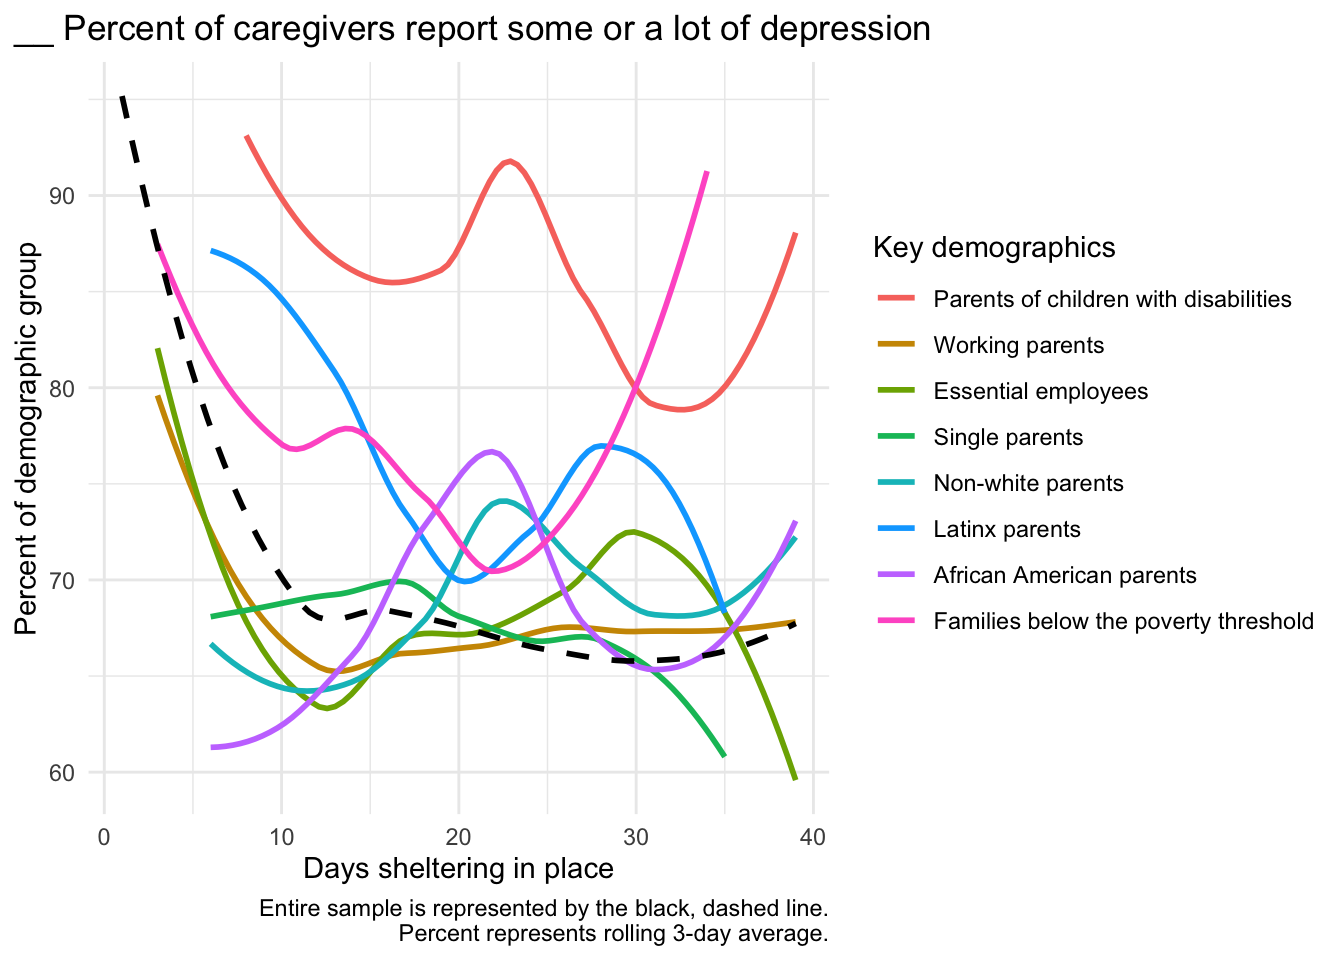
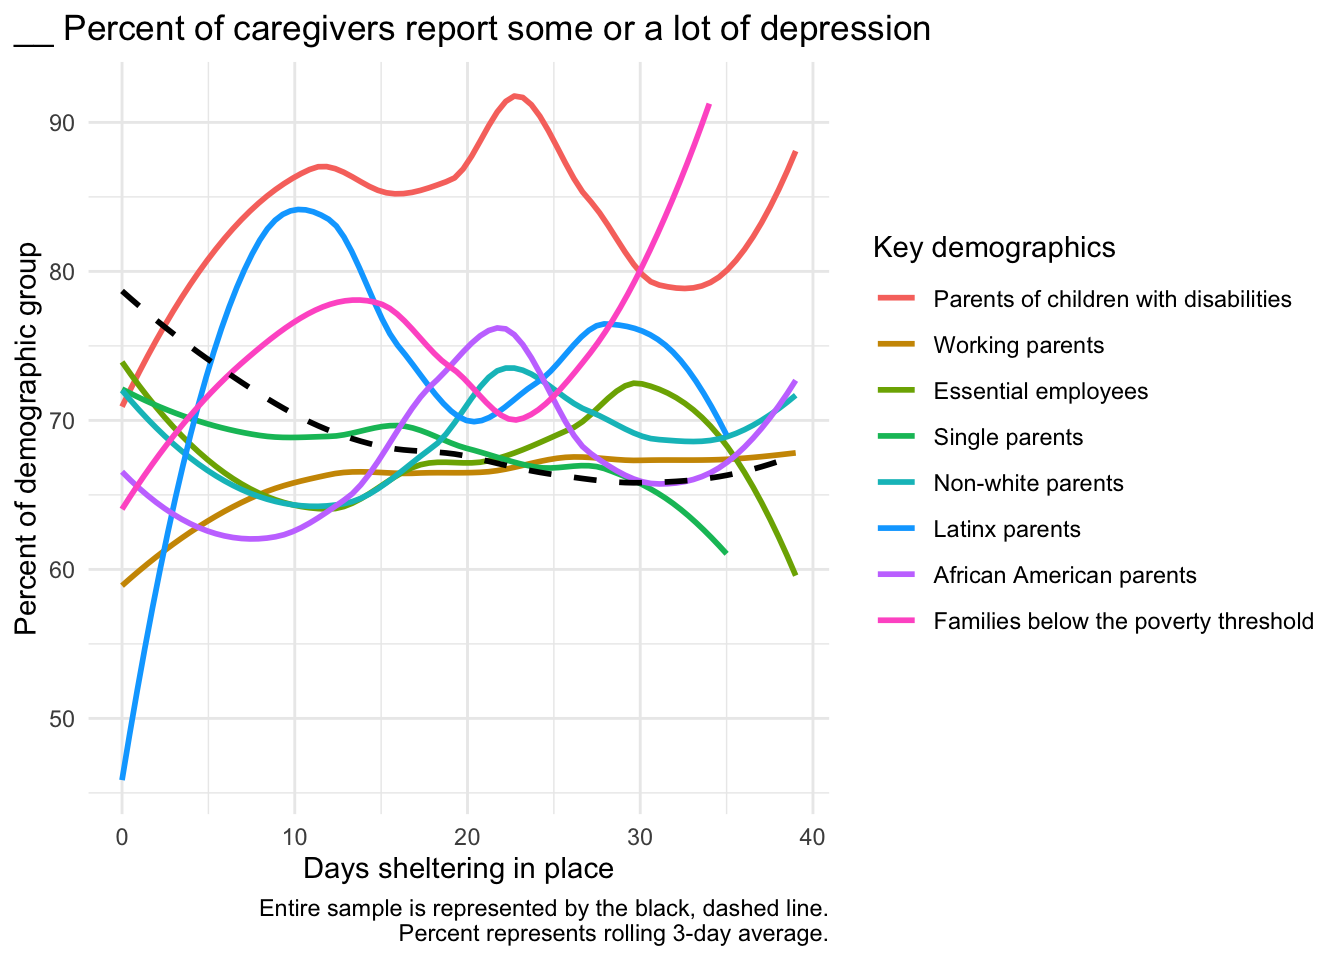
fix starting for shelter in place

diff --git a/_site/0prelim_april27.html b/_site/0prelim_april27.html
@@ -4585,7 +4585,7 @@ Correlations between study variables.
 -0.06
 </td>
 <td style="text-align:right;">
-0.51
+0.52
 </td>
 </tr>
 <tr>
@@ -4714,7 +4714,7 @@ Correlations between study variables.
 <td style="text-align:right;">
 </td>
 <td style="text-align:right;">
-0.51
+0.52
 </td>
 <td style="text-align:right;">
 0.16
